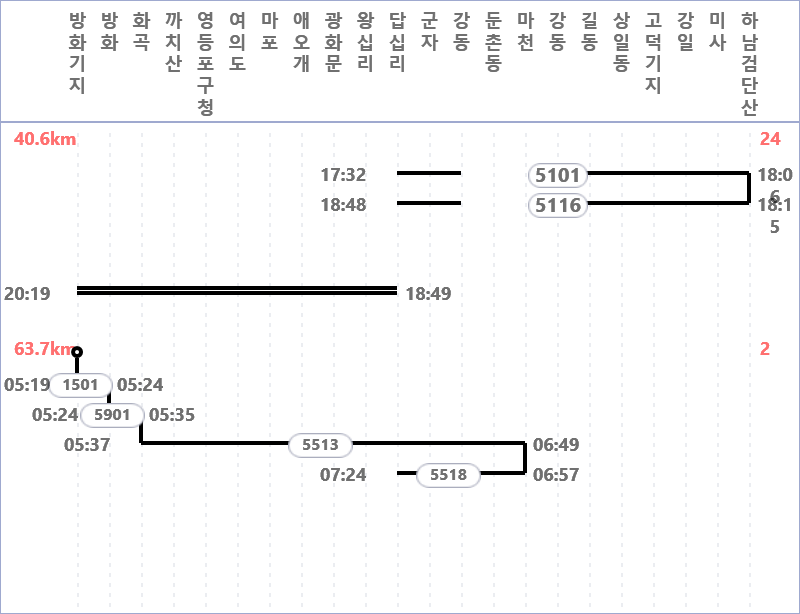
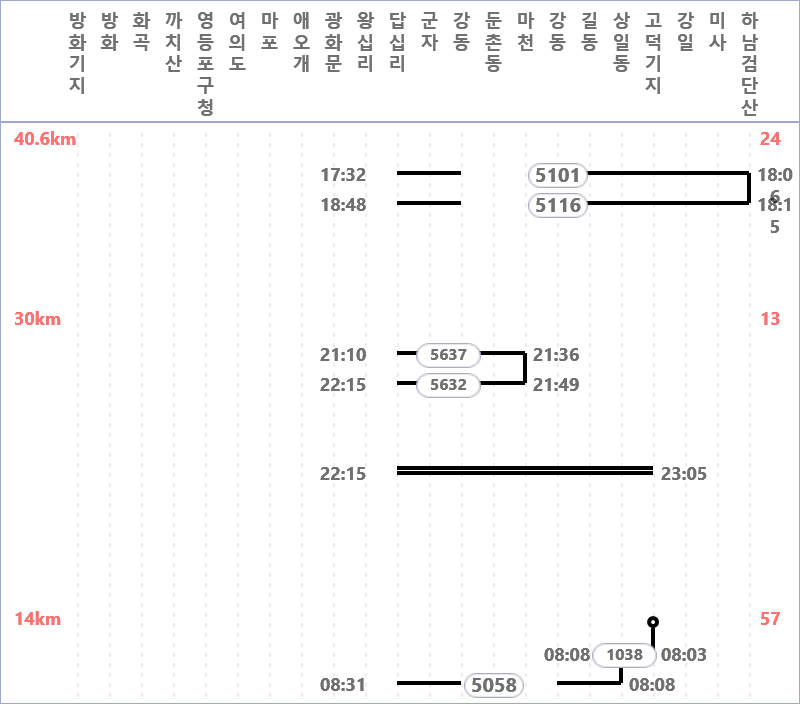
Apply the revised 9/27 휴평 table: dias 62 and 82 changed
The late-night-extension revision of the 9/27 휴평 table moves the
evening 5637/5632 run to 62 (hand-over to 82 at 답십리 22:15, then 편승 to
고덕기지 and 1038/5058 next morning), and gives 82 the old 62 morning
trains. 64/83/88/91/임시61 already matched the captures in the app.

The diff tool now pairs each picture with the nearest dia label, since
hand-pasted pictures in this file sit a few cells off.

diff --git a/src/data/chuseok2026.ts b/src/data/chuseok2026.ts
@@ -115,7 +115,7 @@ const LINK_0923: Record<string, Schedule> = {
 
 /** 야간 62~91 (휴평) — 9/27(일) 저녁. 새벽 열차가 9/28(월) 평일로 이어진다 */
 const NIGHT_HP: Record<string, Schedule> = {
-  "62": {s:"17:02",e:"07:55",m:"답하답,기방화마답",w:"10:52",g:[{d:"17:32",a:"18:49",n:[5101,5116]},{d:"05:19",a:"07:25",n:[1501,5901,5513,5518]}]},
+  "62": {s:"17:02",e:"09:02",m:"답하답,답마답,기상답",w:"9:41",g:[{d:"17:32",a:"18:49",n:[5101,5116]},{d:"21:10",a:"22:16",n:[5637,5632]},{d:"08:03",a:"08:32",n:[1038,5058]}]},
   "63": {s:"17:49",e:"07:26",m:"답방답,기상강마답",w:"10:17",g:[{d:"18:19",a:"20:33",n:[5112,5125]},{d:"05:42",a:"06:56",n:[1010,5908,5507,5512]}]},
   "64": {s:"18:02",e:"08:12",m:"답하답,기방마답",w:"10:57",g:[{d:"18:32",a:"19:49",n:[5109,5124]},{d:"05:32",a:"07:42",n:[1505,5517,5522]}]},
   "65": {s:"18:04",e:"07:59",m:"답방답,기상강하답",w:"10:36",g:[{d:"18:34",a:"20:48",n:[5114,5127]},{d:"05:56",a:"07:29",n:[1014,5910,5005,5032]}]},
@@ -135,7 +135,7 @@ const NIGHT_HP: Record<string, Schedule> = {
   "79": {s:"20:17",e:"09:20",m:"답하답,기미하강마답",w:"9:56",g:[{d:"20:47",a:"22:06",n:[5127,5142]},{d:"07:02",a:"08:50",n:[2007,5911,5048,5537,5542]}]},
   "80": {s:"20:27",e:"08:46",m:"답방답,답방답",w:"9:25",g:[{d:"20:57",a:"23:13",n:[5622,5145]},{d:"06:05",a:"08:16",n:[5014,5029]}]},
   "81": {s:"20:32",e:"08:00",m:"답하방화방기,기방답",w:"11:17",g:[{d:"21:02",a:"24:14",n:[5129,5144,5159,5946,1524]},{d:"06:23",a:"07:30",n:[1519,5533]}]},
-  "82": {s:"20:40",e:"07:38",m:"답마방기,기방답",w:"10:18",g:[{d:"21:10",a:"23:23",n:[5637,5632,1516]},{d:"06:01",a:"07:08",n:[1515,5905]}]},
+  "82": {s:"21:45",e:"07:55",m:"답방기,기방화마답",w:"10:09",g:[{d:"22:15",a:"23:23",n:[5632,1516]},{d:"05:19",a:"07:25",n:[1501,5901,5513,5518]}]},
   "83": {s:"20:47",e:"07:48",m:"답하방기,기방답",w:"10:43",g:[{d:"21:17",a:"23:55",n:[5131,5146,1520]},{d:"06:12",a:"07:18",n:[1517,5529]}]},
   "84": {s:"21:17",e:"08:55",m:"답하방기,기방답",w:"10:36",g:[{d:"21:47",a:"24:16",n:[5135,5148,1526]},{d:"07:17",a:"08:25",n:[1527,5031]}]},
   "85": {s:"19:25",e:"06:47",m:"답마답,답마화,화답",w:"10:44",g:[{d:"19:55",a:"20:57",n:[5627,5622]},{d:"22:10",a:"24:07",n:[5645,5638]},{d:"05:30",a:"06:17",n:[5007]}]},

diff --git a/scripts/chuseok2026/apply_hp0927_rev.py b/scripts/chuseok2026/apply_hp0927_rev.py
@@ -1,0 +1,90 @@
+"""9/27 휴평 «심야연장 반영» 수정본(2026-09-22 받음)을 반영한다 — 바뀐 것은 62·82 두 다이아뿐.
+
+diff_tables.py hp0927 결과: 62·64·82·83·88·91·임시61 이 지난 휴평 표와 다른데,
+64·83·88·91·임시61 은 이미 late_A.json(심야연장 캡처)으로 덮어 두었고 새 그림과 내용이 같다.
+새로 바뀐 것은 62·82 — 둘이 저녁 열차를 나눠 맡도록 바뀌었다(5632 를 62 가 몰고 와 답십리 22:15 에 82 에게 넘김).
+
+gen_ts.py 는 원본 그림 폴더(xl_*·cap)가 있어야 돌아가서, 여기서는 같은 build() 로 두 줄만 다시 만들어 끼운다.
+안전장치: 옛 자료로 만든 줄이 지금 파일의 줄과 한 글자도 다르지 않은지 먼저 확인한다.
+
+쓰는 법(이 폴더에서): py -3 apply_hp0927_rev.py <수정본 엑셀>
+"""
+import json, io, os, re, sys, shutil
+from build import build, derive_se
+from diff_tables import read_workbook
+
+HERE = os.path.dirname(os.path.abspath(__file__))
+WT = os.path.abspath(os.path.join(HERE, '..', '..'))
+TS = os.path.join(WT, 'src', 'data', 'chuseok2026.ts')
+IMG_DIR = os.path.join(WT, 'public', 'images', 'route', 'chuseok2026')
+
+NEW_TRAINS = {
+    '62': [
+        {"train": 5101, "from": "답십리", "dep": "17:32", "to": "하남검단산", "arr": "18:06", "next": "link"},
+        {"train": 5116, "from": "하남검단산", "dep": "18:15", "to": "답십리", "arr": "18:48", "next": "break"},
+        {"train": 5637, "from": "답십리", "dep": "21:10", "to": "마천", "arr": "21:36", "next": "link"},
+        {"train": 5632, "from": "마천", "dep": "21:49", "to": "답십리", "arr": "22:15", "next": "deadhead"},
+        {"train": 1038, "from": "고덕기지", "dep": "08:03", "to": "상일동", "arr": "08:08", "next": "link", "mark": "●"},
+        {"train": 5058, "from": "상일동", "dep": "08:08", "to": "답십리", "arr": "08:31", "next": "end"},
+    ],
+    '82': [
+        {"train": 5632, "from": "답십리", "dep": "22:15", "to": "방화", "arr": "23:17", "next": "link"},
+        {"train": 1516, "from": "방화", "dep": "23:17", "to": "방화기지", "arr": "23:22", "next": "break", "mark": "▼"},
+        {"train": 1501, "from": "방화기지", "dep": "05:19", "to": "방화", "arr": "05:24", "next": "link", "mark": "●"},
+        {"train": 5901, "from": "방화", "dep": "05:24", "to": "화곡", "arr": "05:35", "next": "link"},
+        {"train": 5513, "from": "화곡", "dep": "05:37", "to": "마천", "arr": "06:49", "next": "link"},
+        {"train": 5518, "from": "마천", "dep": "06:57", "to": "답십리", "arr": "07:24", "next": "end"},
+    ],
+}
+
+
+def ts_entry(k, e):   # gen_ts.py 와 같은 모양
+    parts = [f's:"{e["s"]}"', f'e:"{e["e"]}"', f'm:"{e["m"]}"']
+    if e.get('w'):
+        parts.append(f'w:"{e["w"]}"')
+    g = ','.join('{d:"%s",a:"%s",n:[%s]}' % (x['d'], x['a'], ','.join(str(n) for n in x['n'])) for x in e['g'])
+    parts.append(f'g:[{g}]')
+    return f'  "{k}": {{{",".join(parts)}}},'
+
+
+def entry(row, work):
+    s, e_ = derive_se(row)
+    return ts_entry(row['dia'], build(row, s=s, e=e_, w=work))
+
+
+def main():
+    xlsx = sys.argv[1]
+    hp_path, xs_path = os.path.join(HERE, 'hp_A.json'), os.path.join(HERE, 'xl_summary.json')
+    hp = json.load(io.open(hp_path, encoding='utf-8'))
+    xs = json.load(io.open(xs_path, encoding='utf-8'))
+    ts = io.open(TS, encoding='utf-8').read()
+
+    # NIGHT_HP 표 안에서만 바꾼다(다른 표에도 "62"·"82" 줄이 있다)
+    a = ts.index('const NIGHT_HP')
+    b = ts.index('};', a)
+    block = ts[a:b]
+
+    new_summ, new_imgs = read_workbook(xlsx)
+    for k, trains in NEW_TRAINS.items():
+        row = next(r for r in hp if str(r['dia']) == k)
+        old_line = entry(row, xs['hp'][k]['계'])
+        assert old_line in block, f'{k}: 옛 자료로 만든 줄이 파일과 다르다 — 손대지 않음\n{old_line}'
+        row['trains'] = trains
+        xs['hp'][k] = new_summ[k]
+        new_line = entry(row, new_summ[k]['계'])
+        block = block.replace(old_line, new_line, 1)
+        print(k, '\n  전:', old_line.strip(), '\n  후:', new_line.strip())
+        with open(os.path.join(IMG_DIR, f'hp_{k}.png'), 'wb') as f:
+            f.write(new_imgs[k])
+
+    io.open(TS, 'w', encoding='utf-8', newline='').write(ts[:a] + block + ts[b:])
+    for path, data in ((hp_path, hp), (xs_path, xs)):
+        raw = io.open(path, encoding='utf-8', newline='').read()
+        eol = '\r\n' if '\r\n' in raw else '\n'   # 원래 줄끝을 지킨다(바뀐 곳만 diff 에 보이게)
+        text = json.dumps(data, ensure_ascii=False, indent=1).replace('\n', eol)
+        io.open(path, 'w', encoding='utf-8', newline='').write(text + (eol if raw.endswith(('\n', '\r\n')) else ''))
+    print('반영 끝')
+
+
+if __name__ == '__main__':
+    main()

diff --git a/scripts/chuseok2026/diff_tables.py b/scripts/chuseok2026/diff_tables.py
@@ -37,18 +37,24 @@ def is_dia(k: str) -> bool:
     return bool(re.fullmatch(r'(?:임시|변)?\d+', k))
 
 
+def dia_name(v) -> str:
+    """칸의 다이아 번호 — «임시\\n61» 처럼 줄이 바뀐 것도 «임시61» 로"""
+    return str(int(v)) if isinstance(v, (int, float)) else re.sub(r'\s+', '', str(v))
+
+
 def read_workbook(path):
     wb = openpyxl.load_workbook(path)
     wbv = openpyxl.load_workbook(path, data_only=True)
     summ, imgs = {}, {}
     for ws, wsv in zip(wb.worksheets, wbv.worksheets):
         g = {(c.row, c.column): c.value for row in wsv.iter_rows() for c in row if c.value not in (None, '')}
+        labels = []   # (행, 열, 다이아) — 다이아 번호 칸의 자리
         for (r, c), v in g.items():
             if isinstance(v, str) and v.replace(' ', '') == '승무구간':
                 dv = g.get((r, c - 2))
                 if dv is None:
                     continue
-                dia = str(int(dv)) if isinstance(dv, (int, float)) else str(dv).strip()
+                dia = dia_name(dv)
                 info = {}
                 for (r2, c2), v2 in g.items():
                     if r < r2 <= r + 30 and c2 == c + 30 and v2 in LABELS:
@@ -57,12 +63,15 @@ def read_workbook(path):
                         info['km'] = g.get((r2, c2 + 4))
                 if is_dia(dia):
                     summ[dia] = info
+                    labels.append((r, c - 2, dia))
         for im in ws._images:
             a = im.anchor._from
-            v = ws.cell(row=a.row + 1 - 2, column=a.col + 1 - 3).value
-            dia = str(int(v)) if isinstance(v, (int, float)) else str(v).strip()
-            if is_dia(dia):
-                imgs[dia] = im._data()
+            row, col = a.row + 1, a.col + 1
+            # 그림은 보통 번호 칸에서 2행 아래·2열 오른쪽에 붙는데, 손으로 갈아 끼운 그림은 자리가 조금씩
+            # 어긋난다(9/27 심야연장 반영본에서 row 2·col 40 등). 그림의 왼쪽 위에서 가장 가까운 번호 칸을 쓴다.
+            near = [(r, c, d) for r, c, d in labels if r <= row + 2 and c <= col + 2]
+            if near:
+                imgs[max(near)[2]] = im._data()
     return summ, imgs
 
 
